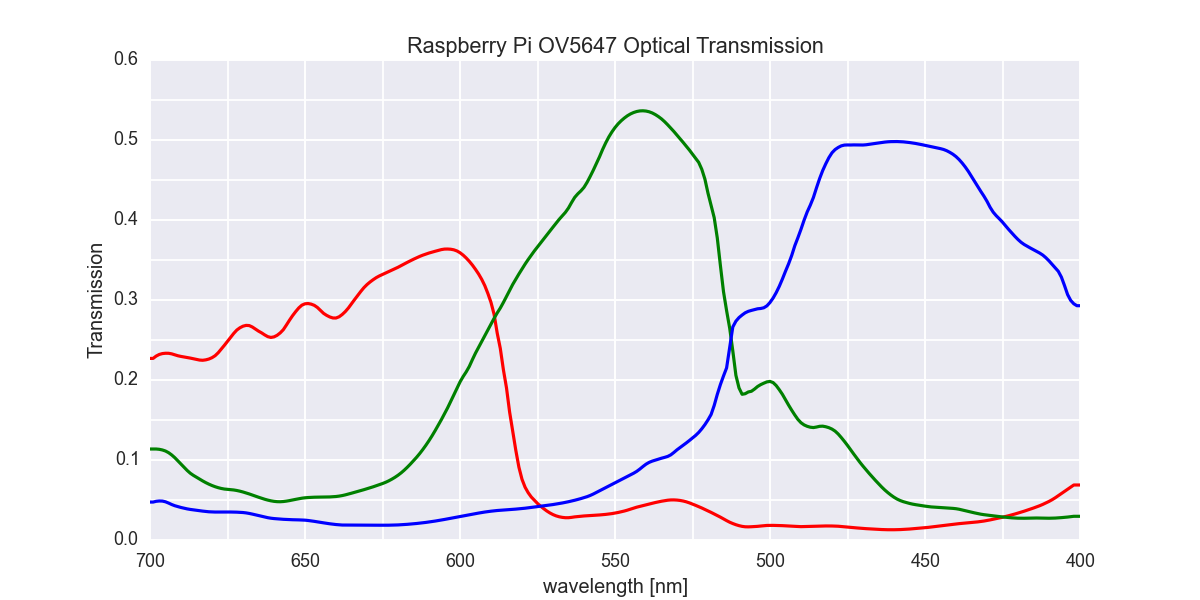
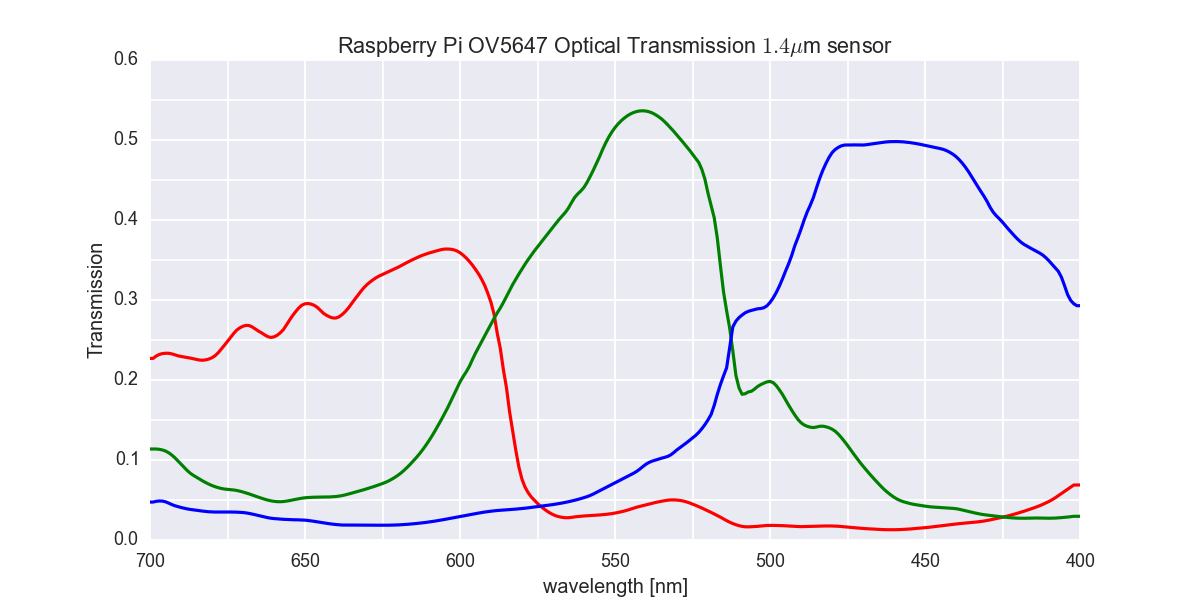
title

Changed region(s): [[0.2775, 0.06, 0.74, 0.09]]

diff --git a/loadraspicam.py b/loadraspicam.py
@@ -26,7 +26,7 @@ def loadT14(h5fn):
 
     return T
 
-def plotT(T,log):
+def plotT(T,log,sensor):
     assert isinstance(T,DataFrame)
 
     ax = figure(figsize=(12,6)).gca()
@@ -34,7 +34,7 @@ def plotT(T,log):
     ax.plot(T.index,T['green'],color='g')
     ax.plot(T.index,T['blue'],color='b')
     ax.invert_xaxis()
-    ax.set_title('Raspberry Pi OV5647 Optical Transmission')
+    ax.set_title('Raspberry Pi OV5647 Optical Transmission '+sensor)
     ax.set_xlabel('wavelength [nm]')
     ax.set_ylabel('Transmission')
     ax.grid(True,which='both')
@@ -48,7 +48,7 @@ def plotT(T,log):
 
 if __name__ == '__main__':
     T = loadT14('raspicamOV5647.h5')
-    plotT(T,False)
-    plotT(T,True)
+    plotT(T,False,'$1.4\mu$m sensor')
+    plotT(T,True,'$1.4\mu$m sensor')
 
     show()
